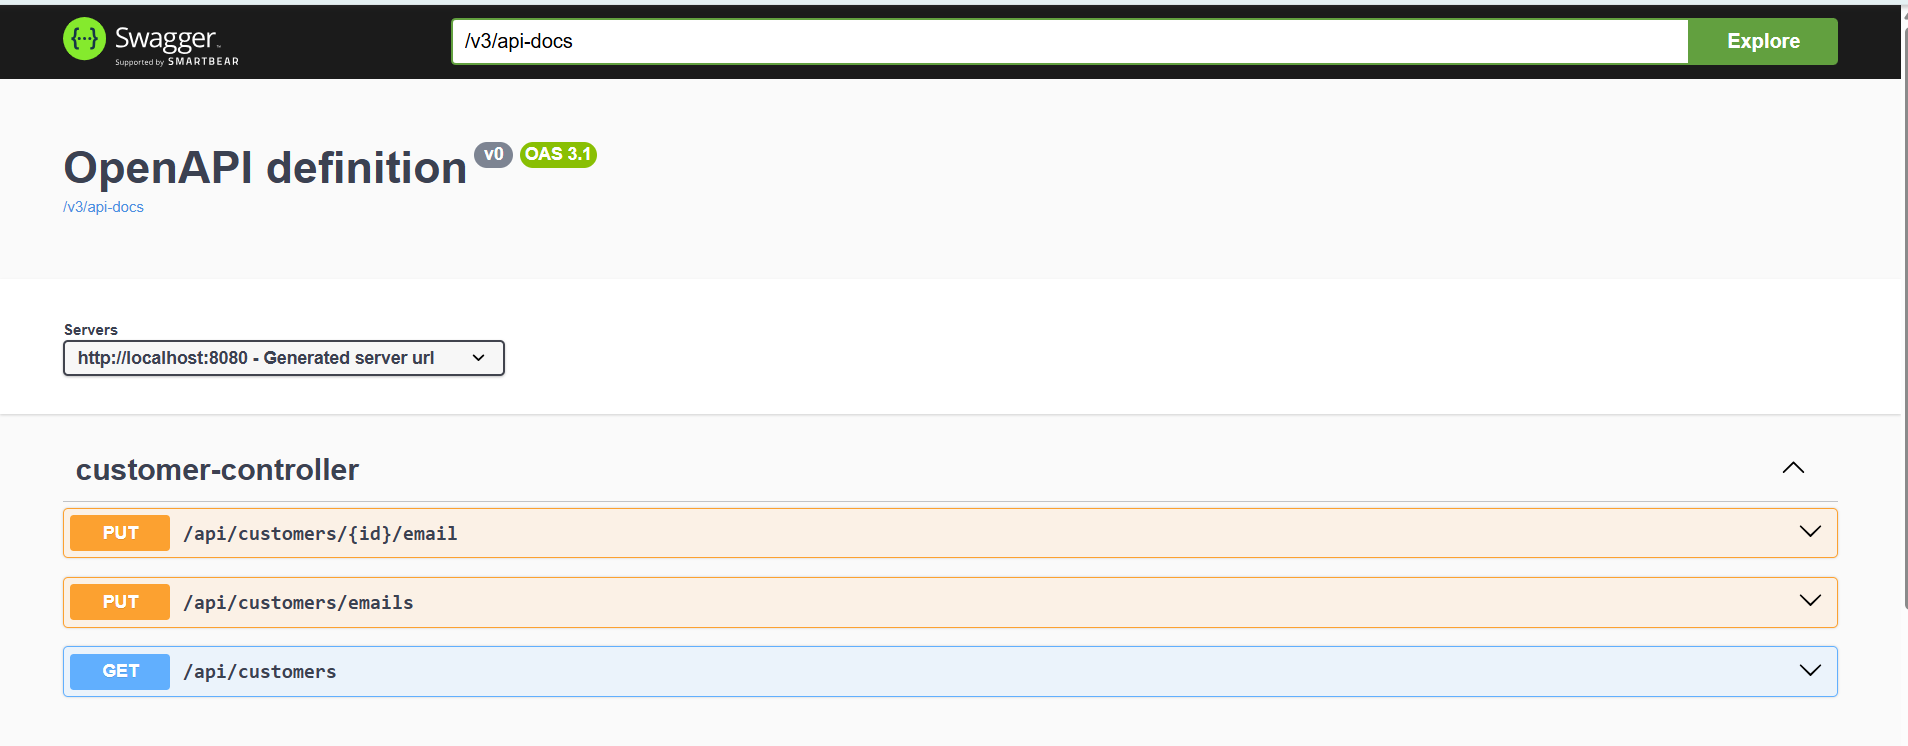
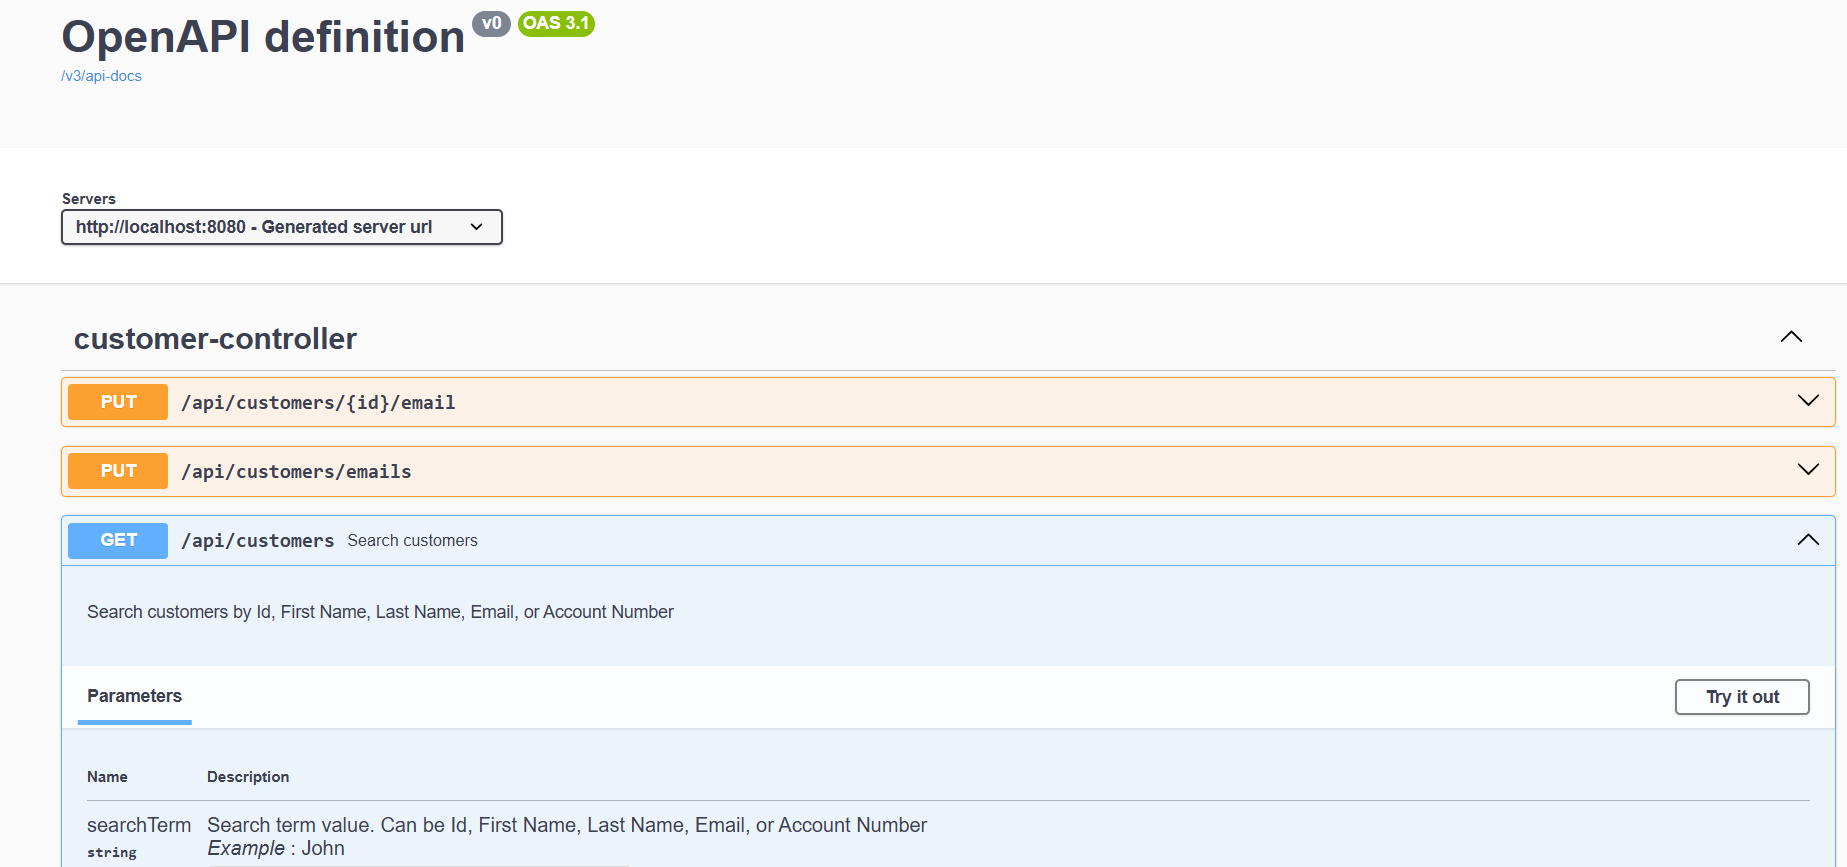
Update Swagger endpoint description

diff --git a/src/main/java/com/example/customerlookup/controller/CustomerController.java b/src/main/java/com/example/customerlookup/controller/CustomerController.java
@@ -6,6 +6,8 @@ import com.example.customerlookup.service.CustomerService;
 import jakarta.validation.Valid;
 import org.springframework.http.ResponseEntity;
 import org.springframework.web.bind.annotation.*;
+import io.swagger.v3.oas.annotations.Operation;
+import io.swagger.v3.oas.annotations.Parameter;
 
 import java.util.List;
 
@@ -20,7 +22,16 @@ public class CustomerController {
     }
 
     @GetMapping
-    public List<Customer> searchCustomers(@RequestParam(required = false) String searchTerm) {
+    @Operation(
+            summary = "Search customers",
+            description = "Search customers by Id, First Name, Last Name, Email, or Account Number"
+    )
+    public List<Customer> searchCustomers(
+            @Parameter(
+                    description = "Search term value. Can be Id, First Name, Last Name, Email, or Account Number",
+                    example = "John"
+            )
+            @RequestParam(required = false) String searchTerm) {
         return customerService.searchCustomers(searchTerm);
     }
 